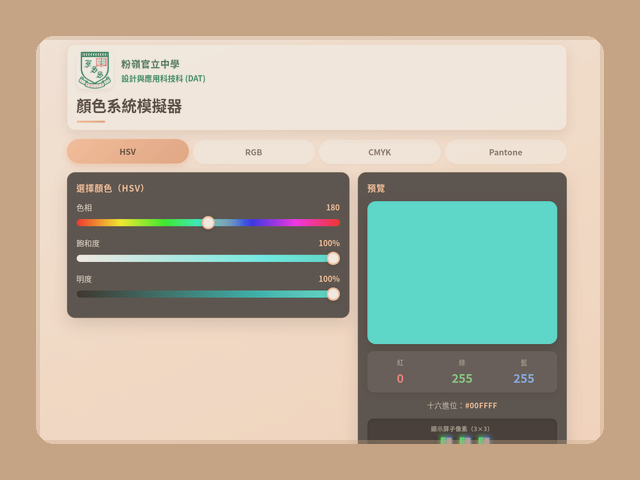
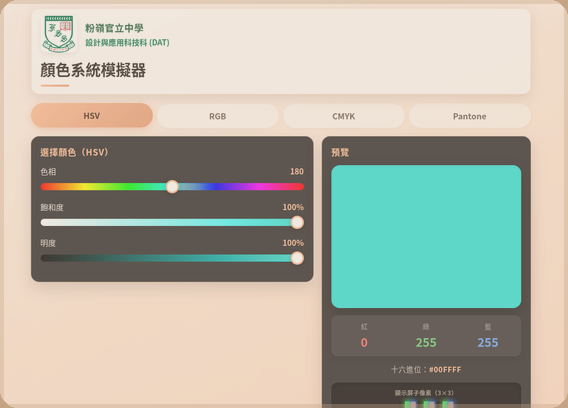
Wrap material cards with a CSS colour border.
Crop the baked frames out of the card images and draw a 10px tile-coloured border around each face so the colour sits outside the screenshot.

diff --git a/index.html b/index.html
@@ -204,8 +204,11 @@
       border-radius: var(--radius-lg);
       overflow: hidden;
       box-shadow: var(--shadow-card);
+      box-sizing: border-box;
+      border: 10px solid transparent;
     }
     .card-face img {
+      display: block;
       width: 100%;
       height: 100%;
       object-fit: cover;
@@ -346,7 +349,7 @@
     <div class="grid">
       <a class="card" href="https://dat-fgss.github.io/production/" target="_blank" rel="noopener">
         <div class="card-face tile-electronics">
-          <img src="assets/cards/card_03.png?v=20261023c" alt="" />
+          <img src="assets/cards/card_03.png?v=20261023d" alt="" />
           <span class="chip">NEW</span>
         </div>
         <div class="card-meta">
@@ -357,7 +360,7 @@
       </a>
 <a class="card" href="https://dat-fgss.github.io/leverage/" target="_blank" rel="noopener">
         <div class="card-face tile-3dprint">
-          <img src="assets/cards/card_07.png?v=20261023c" alt="" />
+          <img src="assets/cards/card_07.png?v=20261023d" alt="" />
           <span class="chip">NEW</span>
         </div>
         <div class="card-meta">
@@ -368,7 +371,7 @@
       </a>
 <a class="card" href="https://dat-fgss.github.io/torch/" target="_blank" rel="noopener">
         <div class="card-face tile-product">
-          <img src="assets/cards/card_01.png?v=20261023c" alt="" />
+          <img src="assets/cards/card_01.png?v=20261023d" alt="" />
           <span class="chip">NEW</span>
         </div>
         <div class="card-meta">
@@ -379,7 +382,7 @@
       </a>
 <a class="card" href="https://dat-fgss.github.io/color-simulator/" target="_blank" rel="noopener">
         <div class="card-face tile-woodwork">
-          <img src="assets/cards/card_06.png?v=20261023c" alt="" />
+          <img src="assets/cards/card_06.png?v=20261023d" alt="" />
           <span class="chip">NEW</span>
         </div>
         <div class="card-meta">
@@ -390,7 +393,7 @@
       </a>
 <a class="card" href="https://dat-fgss.github.io/thin-thick-line/" target="_blank" rel="noopener">
         <div class="card-face tile-drawing">
-          <img src="assets/cards/card_05.png?v=20261023c" alt="" />
+          <img src="assets/cards/card_05.png?v=20261023d" alt="" />
           <span class="chip">NEW</span>
         </div>
         <div class="card-meta">
@@ -401,7 +404,7 @@
       </a>
 <a class="card" href="https://dat-fgss.github.io/quiz-thin-thick/" target="_blank" rel="noopener">
         <div class="card-face tile-stem">
-          <img src="assets/cards/card_02.png?v=20261023c" alt="" />
+          <img src="assets/cards/card_02.png?v=20261023d" alt="" />
           <span class="chip">NEW</span>
         </div>
         <div class="card-meta">
@@ -412,7 +415,7 @@
       </a>
 <a class="card" href="https://dat-fgss.github.io/prompt-test/" target="_blank" rel="noopener">
         <div class="card-face tile-mech">
-          <img src="assets/cards/card_08.png?v=20261023c" alt="" />
+          <img src="assets/cards/card_08.png?v=20261023d" alt="" />
           <span class="chip">NEW</span>
         </div>
         <div class="card-meta">

diff --git a/tokens.css b/tokens.css
@@ -59,14 +59,14 @@
 }
 
 /* Utility helpers (optional) */
-.tile-electronics { background: var(--tile-electronics); }
-.tile-3dprint { background: var(--tile-3dprint); }
-.tile-product { background: var(--tile-product); }
-.tile-woodwork { background: var(--tile-woodwork); }
-.tile-drawing { background: var(--tile-drawing); }
-.tile-stem { background: var(--tile-stem); }
-.tile-mech { background: var(--tile-mech); }
-.tile-ai { background: var(--tile-ai); }
+.tile-electronics { background: var(--tile-electronics); border-color: var(--tile-electronics); }
+.tile-3dprint { background: var(--tile-3dprint); border-color: var(--tile-3dprint); }
+.tile-product { background: var(--tile-product); border-color: var(--tile-product); }
+.tile-woodwork { background: var(--tile-woodwork); border-color: var(--tile-woodwork); }
+.tile-drawing { background: var(--tile-drawing); border-color: var(--tile-drawing); }
+.tile-stem { background: var(--tile-stem); border-color: var(--tile-stem); }
+.tile-mech { background: var(--tile-mech); border-color: var(--tile-mech); }
+.tile-ai { background: var(--tile-ai); border-color: var(--tile-ai); }
 
 .card-tile {
   border-radius: var(--radius-lg);
